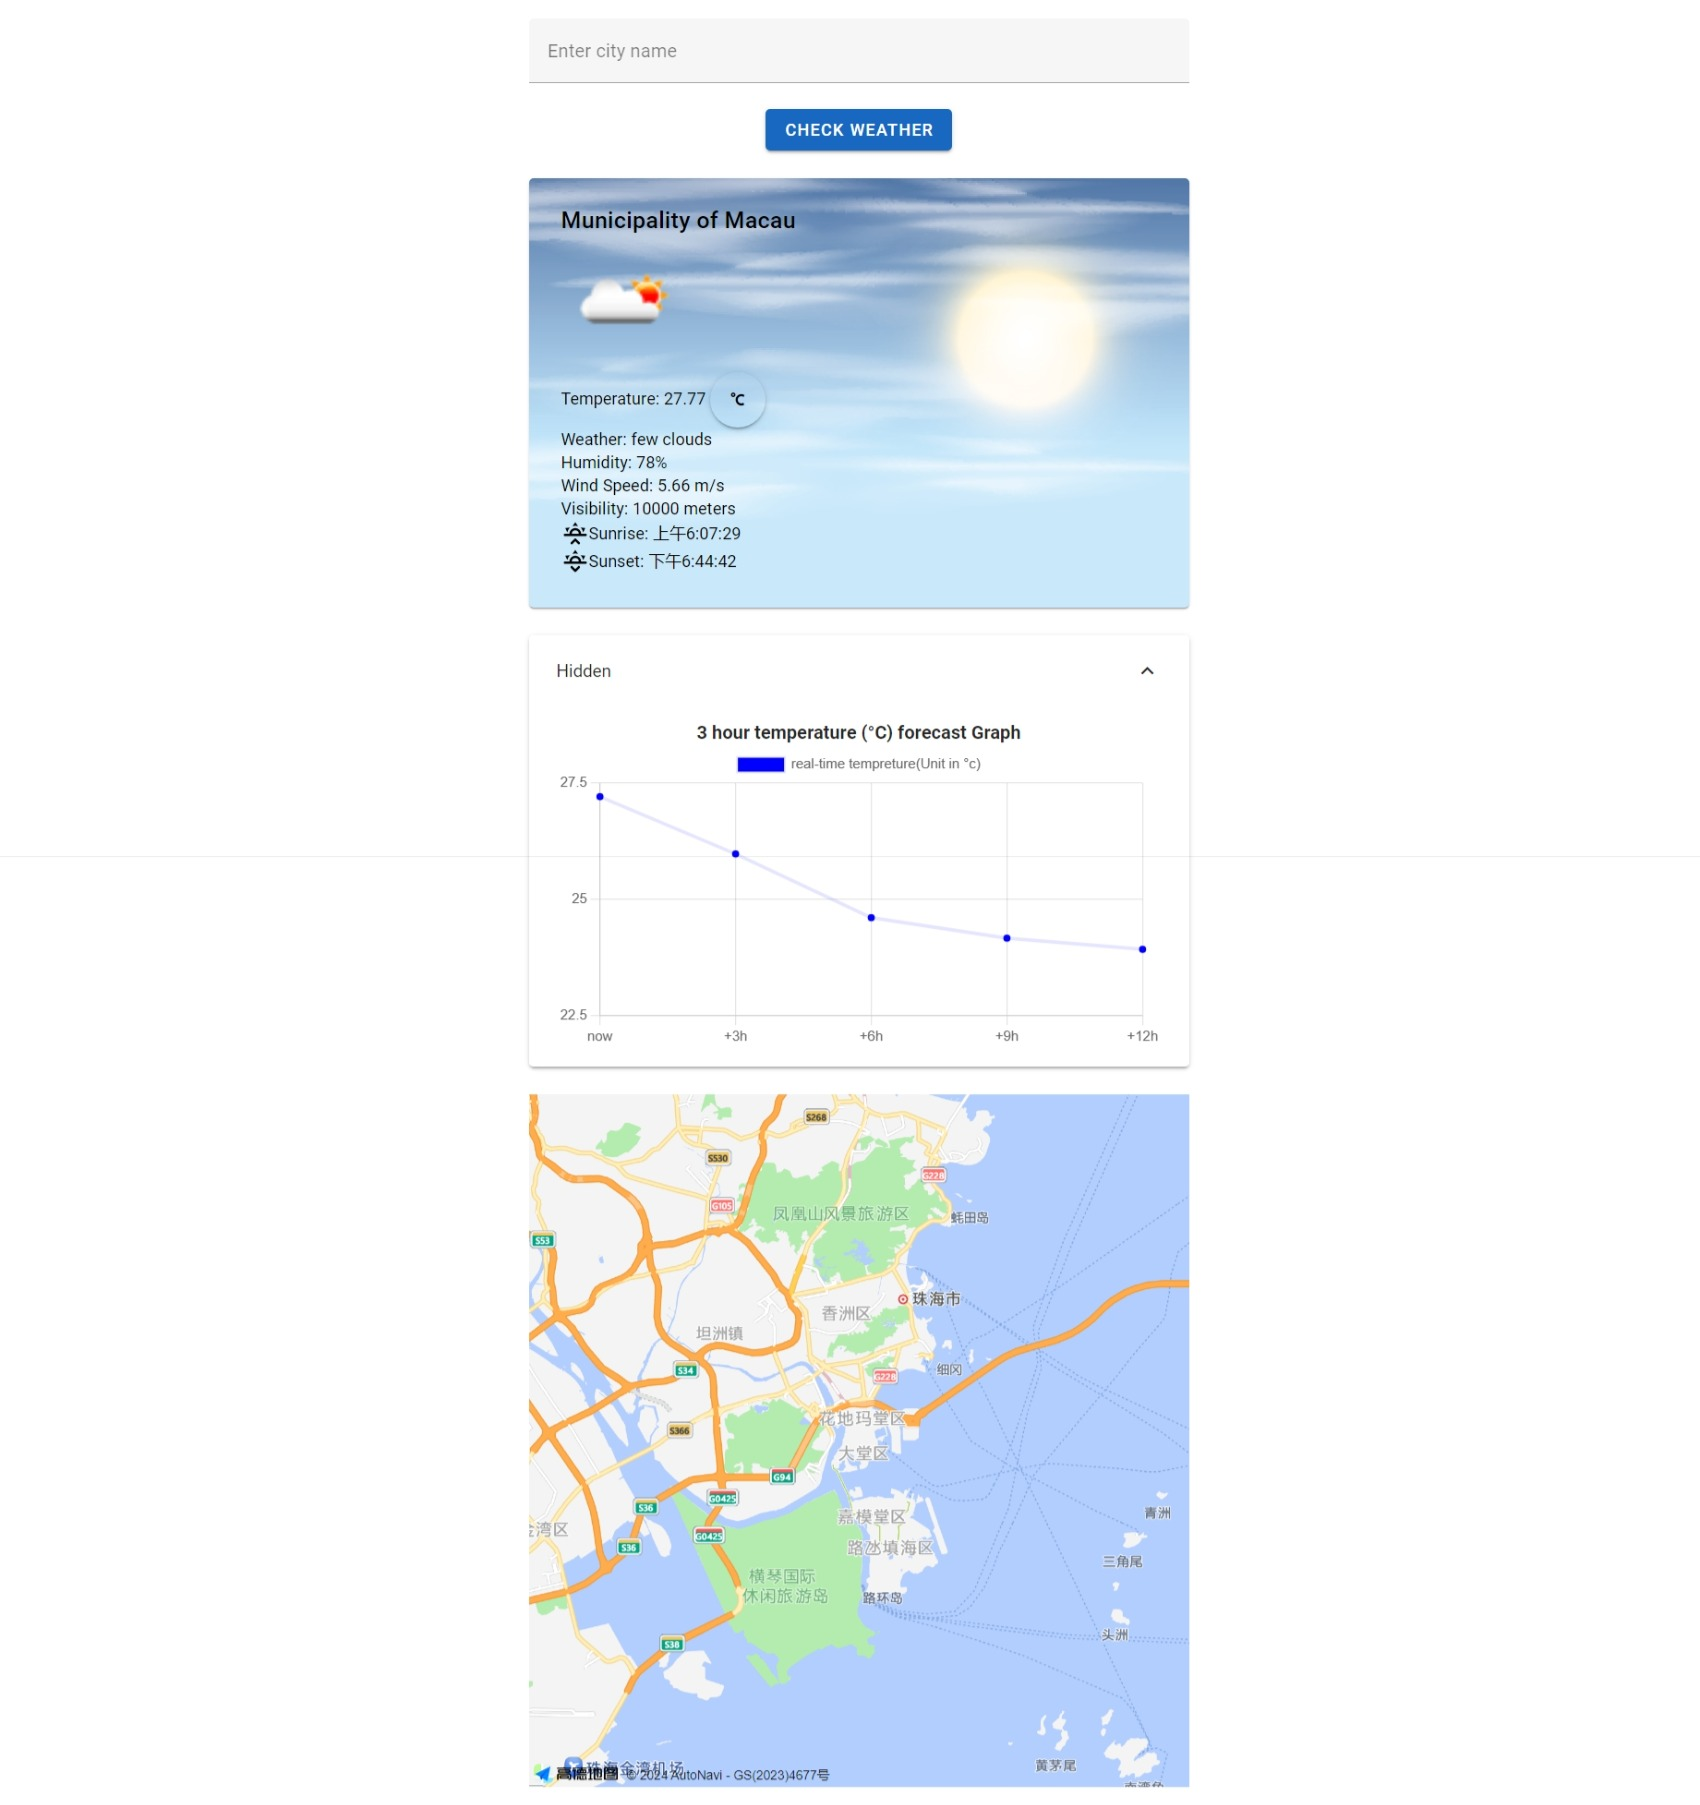
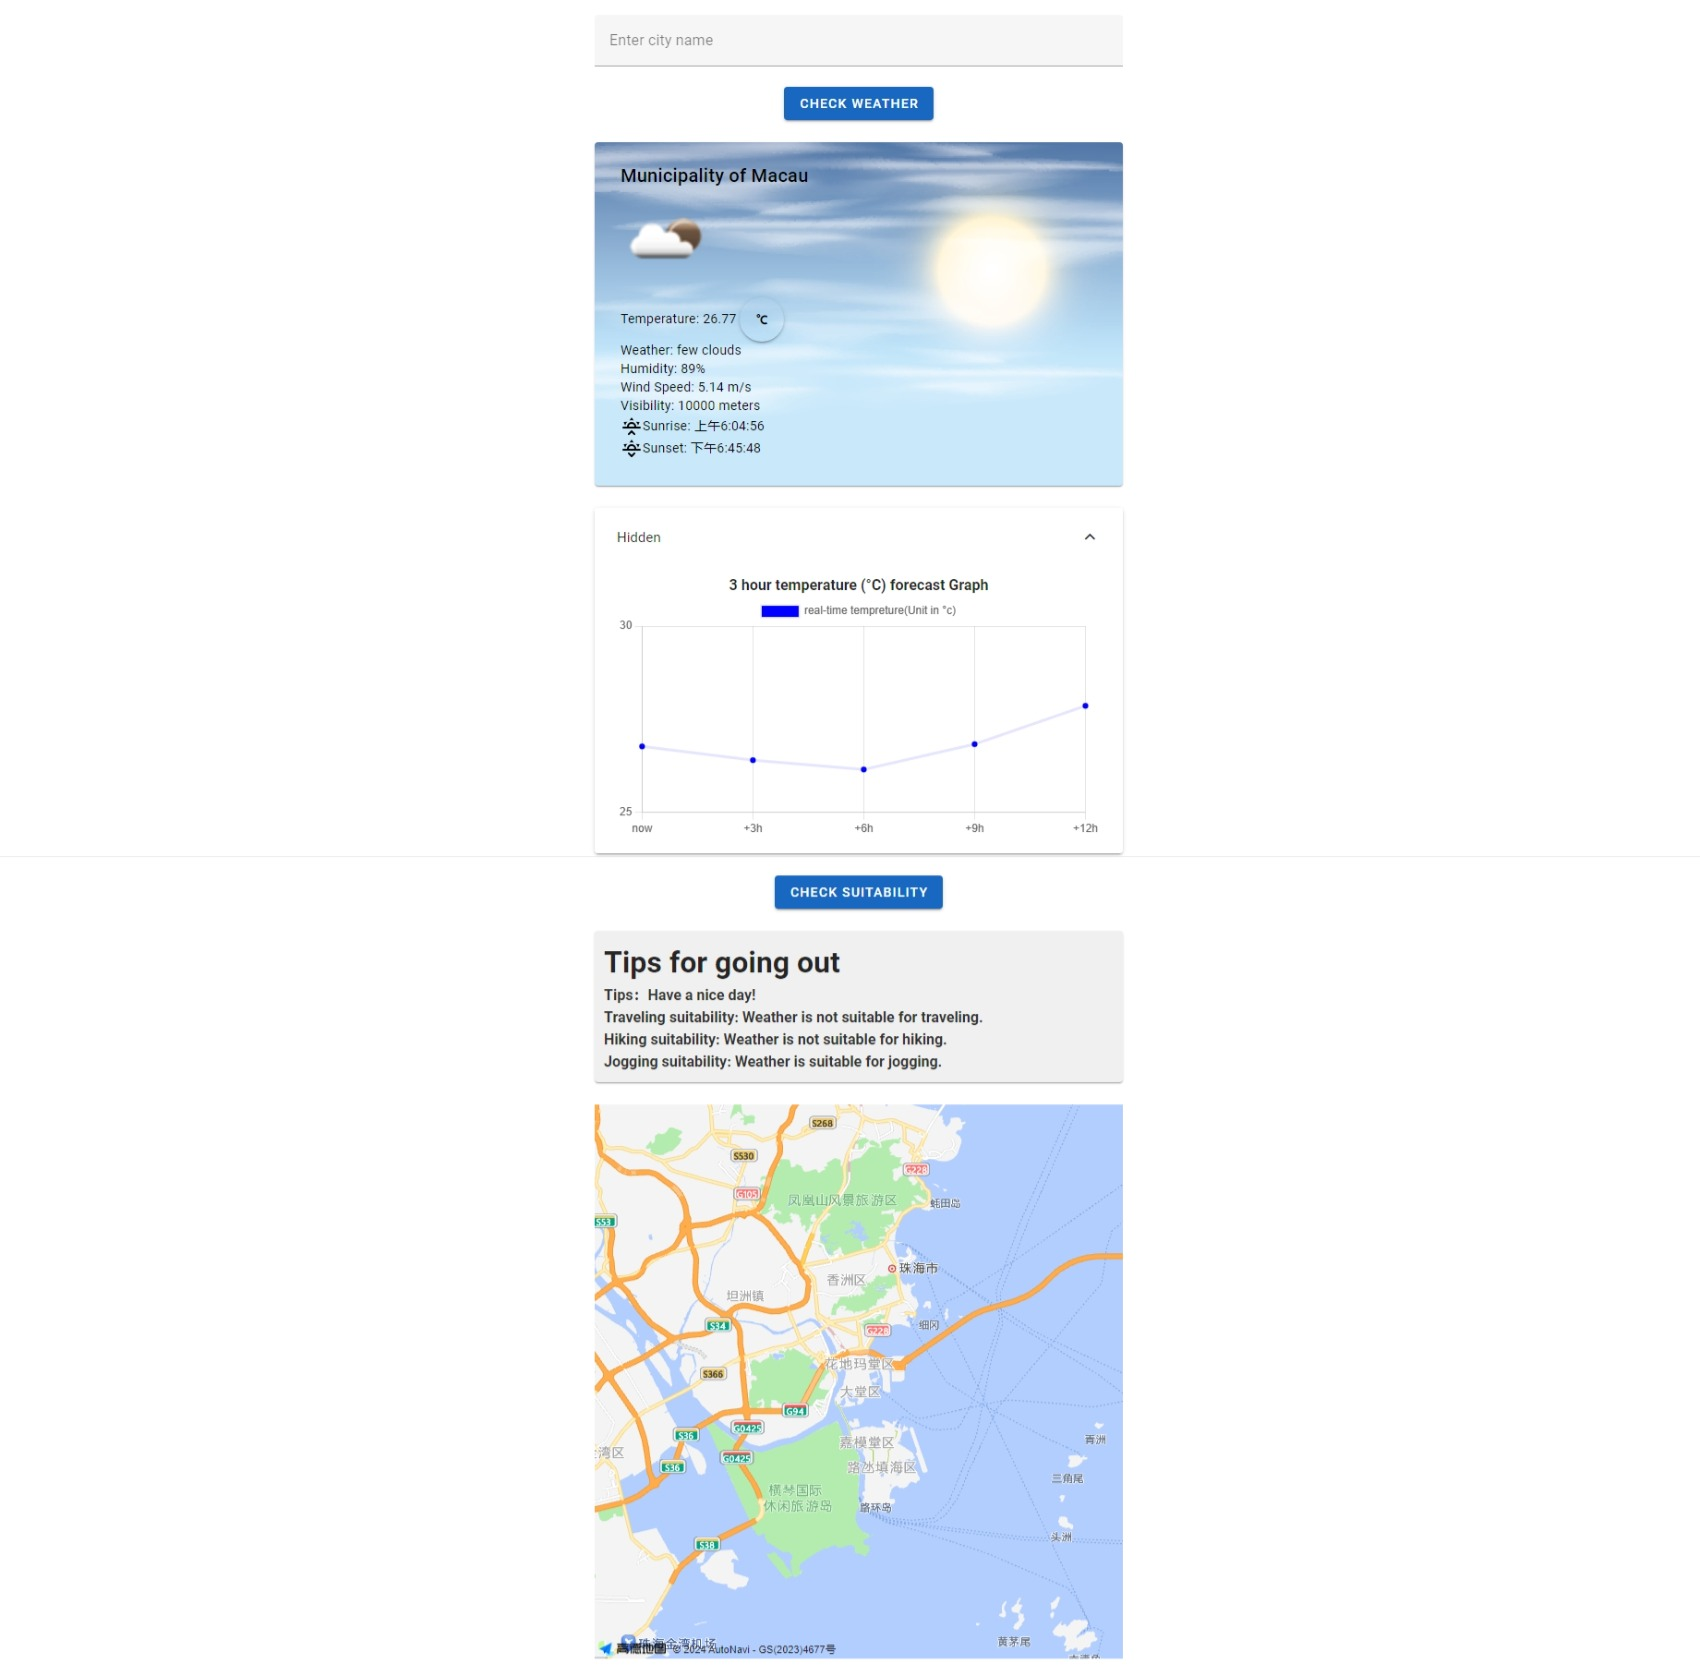
third update

diff --git a/weather-client-copy/src/App.vue b/weather-client-copy/src/App.vue
@@ -3,9 +3,6 @@
   <v-main>
     <v-container>
       <v-row>
-        <!--v-col cols="12" sm="6" offset-sm="3" class="d-flex justify-center">
-          <v-btn color="primary" @click="getLocation">Get From Your Location</v-btn>
-        </v-col-->
         <v-col cols="12" sm="6" offset-sm="3" class="search-col">
           <v-text-field label="Enter city name" v-model="cityName" clearable @keyup.enter="fetchWeather" class="mb-0"></v-text-field>
         </v-col>
@@ -14,6 +11,7 @@
             Check Weather
           </v-btn>
         </v-col>
+        
       </v-row>
       
       <v-row v-if="weather">
@@ -69,6 +67,21 @@
           </v-expansion-panels> 
         </v-col>
       </v-row>
+      <v-row>
+       <v-col cols="12" sm="6" offset-sm="3" class="d-flex justify-center">
+            <v-btn color="primary" @click="checkSuitability">Check Suitability</v-btn>
+          </v-col>
+      <v-col cols="12" sm="6" offset-sm="3" class="suitability-col" v-if="showSuitability">
+        <v-card style="background-color: #f0f0f0; padding: 10px;">
+          <h1>Tips for going out</h1>
+          <div style="font-weight: bold; color: #333;">Tips：{{ tips }}</div>
+          <p style="font-weight: bold; color: #333;">Traveling suitability: {{ travelingSuitability }}</p>
+          <p style="font-weight: bold; color: #333;">Hiking suitability: {{ hikingSuitability }}</p>
+          <p style="font-weight: bold; color: #333;">Jogging suitability: {{ joggingSuitability }}</p>
+        </v-card>
+      </v-col>
+        
+      </v-row>
       <v-row><!--这是新加入的地图-->
         <v-col cols="12" sm="6" offset-sm="3">
           <div id="container"> <MapContainer> </MapContainer></div>
@@ -89,166 +102,5 @@
 import "./assets/AppStyles.css";
 import AppLogic from './js/App.js';
 export default AppLogic;
-/*
-import axios from 'axios';
-import { mdiWeatherSunsetUp, mdiWeatherSunsetDown } from '@mdi/js';
-
-
-import dayImage from './assets/backgrounds/day-bg.png';
-import nightImage from './assets/backgrounds/night-bg.png';
-
-import { Chart, registerables } from 'chart.js';
-Chart.register(...registerables);
-
-import AMapLoader from '@amap/amap-jsapi-loader';
-
-export default {
-  name: 'App',
-  components: {
-    SvgWeatherIcon,
-  },
-  data: () => ({
-    cityName: '',
-    weather: null,
-    error: null,
-    textColor: 'black', 
-    temperatureUnit: 'C', 
-    dayBackgroundImage: dayImage, 
-    nightBackgroundImage: nightImage, 
-    currentBackgroundImage: dayImage, 
-    icons: {
-      mdiWeatherSunsetUp, 
-      mdiWeatherSunsetDown,
-    },
-    yValues : '',
-    panel: null,
-    panelTitle: 'Details',
-    chartInstance: null,
-  }),
-    formattedTemperature() {
-      if (this.temperatureUnit === 'F') {
-        return (this.weather.temperature * 9/5 + 32).toFixed(1); 
-      }
-      return this.weather.temperature; 
-    },
-  },
-  mounted() {
-    this.getLocation(); 
-    this.initAMap();
-  },
-  unmounted() {
-    this.map?.destroy();
-  },
-  watch: {
-    panel(newVal) {
-      if (newVal === 0) {
-        this.panelTitle = 'Hidden';
-        this.$nextTick(() => {
-          
-          this.getChart(this.weather.yValues);
-        });
-      }
-      else {
-        this.panelTitle = 'Details';
-    }
-    }
-  },
-  methods: {
-
-    getLocation() {
-      if (navigator.geolocation) {
-        navigator.geolocation.getCurrentPosition(this.showPosition, this.showError); }
-      else {
-        console.log("Not support grolocation")
-      }
-    },
-    showPosition(position) {
-      const latitude = position.coords.latitude;
-      const longitude = position.coords.longitude;
-      axios.get('http://localhost:5000/weather', {
-        params: {
-        latitude: latitude,
-        longitude: longitude  }
-                })
-      .then(response => {
-        this.weather=response.data;
-        this.yValues=this.weather.yValues;
-      })
-      .catch(error => {
-        console.error(error); });
-    }, 
-    beforeDestroy() {
-      if (this.chartInstance) {
-        this.chartInstance.destroy();
-      }
-    },
-    getChart(yValues){
-      this.$nextTick(() => {
-        if (this.chartInstance) {
-          this.chartInstance.destroy();
-        }
-        const ctx = document.getElementById('myChart').getContext('2d');
-        this.chartInstance = new Chart(ctx, {
-          type: "line",
-          data: {
-            labels:["now", "+3h", "+6h", "+9h", "+12h"],
-            datasets: [{
-              label: "real-time tempreture(Unit in °c)",
-              fill: false,
-              lineTension: 0,
-              backgroundColor: "rgba(0,0,255,1.0)",
-              borderColor: "rgba(0,0,255,0.1)",
-              data: yValues,
-            }]
-          },
-          options: {
-            // legend: {display: false},
-            scales: {
-              y: {
-                ticks: {
-                  min: -20,
-                  max: 40,
-                  stepSize: 5,
-                }
-              },
-            }
-          }
-        });
-      });
-    },
-    fetchWeather() {
-      axios.get('http://localhost:5000/weather', {
-        params: {
-          city: this.cityName
-        }
-      })
-      .then(response => {
-        this.weather = response.data;
-        this.error = null;
-        const now = new Date().getTime() / 1000; // now time
-        this.yValues=this.weather.yValues;
-        if (now < this.weather.sunrise || now > this.weather.sunset) {
-          this.currentBackgroundImage = this.nightBackgroundImage; // night
-          this.textColor = 'white'; 
-        } else {
-          this.currentBackgroundImage = this.dayBackgroundImage; // day
-          this.textColor = 'black'; 
-        }
-      })
-      .catch(error => {
-        this.error = error;
-        this.error = "There was an error fetching the weather data or the city was not found.";
-        this.weather = null;
-      });
-    },
-    formatTime(timestamp) {
-      return new Date(timestamp * 1000).toLocaleTimeString();
-    },
-    toggleTemperatureUnit() {
-      this.temperatureUnit = this.temperatureUnit === 'C' ? 'F' : 'C';
-    },
-  },
-  }
-*/
 </script>
 

diff --git a/weather-client-copy/src/js/App.js b/weather-client-copy/src/js/App.js
@@ -34,6 +34,12 @@ export default {
     panel: null,
     panelTitle: 'Details',
     chartInstance: null,
+    //以下适用于出行情况
+    tips: '',
+    showSuitability: false,
+    travelingSuitability: '',
+    hikingSuitability: '',
+    joggingSuitability: '',
   }),
   computed: {
     formattedTemperature() {
@@ -145,6 +151,7 @@ export default {
           this.error = null;
           const now = new Date().getTime() / 1000; // now time
           this.yValues = this.weather.yValues;
+
           if (now < this.weather.sunrise || now > this.weather.sunset) {
             this.currentBackgroundImage = this.nightBackgroundImage; // night
             this.textColor = 'white';
@@ -184,6 +191,40 @@ export default {
     toggleTemperatureUnit() {
       this.temperatureUnit = this.temperatureUnit === 'C' ? 'F' : 'C';
     },
+    checkSuitability() {
+      this.showSuitability = true;
+      if (this.weather.condition === 'Sunny') {
+        this.tips = 'Pay attention to sun protection'
+      }
+      else if (this.weather.condition === 'Rain') {
+        this.tips = 'Remember to bring an umbrella'
+      }
+      else if (this.weather.condition === 'Snow') {
+        this.tips = 'Be careful when going out'
+      }
+      else this.tips = 'Have a nice day!'
+      // Example code to check if it's suitable for traveling based on weather condition
+      if (this.weather.condition === 'Sunny' || this.weather.condition === 'Cloud') {
+        this.travelingSuitability = 'Weather is suitable for traveling.';
+      } else {
+        this.travelingSuitability = 'Weather is not suitable for traveling.';
+      }
+
+      // Example code to check if it's suitable for hiking based on temperature range
+      if (this.weather.temperature >= 10 && this.weather.temperature <= 25) {
+        this.hikingSuitability = 'Weather is suitable for hiking.';
+      } else {
+        this.hikingSuitability = 'Weather is not suitable for hiking.';
+      }
+
+      // Example code to check if it's suitable for josgging based on weather condition and temperature
+      if (this.weather.condition === 'Clouds' && this.weather.temperature >= 15) {
+        this.joggingSuitability = 'Weather is suitable for jogging.';
+      } else {
+        this.joggingSuitability = 'Weather is not suitable for jogging.';
+      }
+    },
+
   },
 }
 

diff --git a/weather-client-copy/src/components/MapContainer.vue b/weather-client-copy/src/components/MapContainer.vue
@@ -7,13 +7,15 @@ let map = null;
 onMounted(() => {
   if (navigator.geolocation) {
     navigator.geolocation.getCurrentPosition((position) => {
-      const longitude = position.coords.longitude; // 获取当前位置的经度
-      const latitude = position.coords.latitude; // 获取当前位置的纬度
-
+      const longitude = position.coords.longitude; 
+      const latitude = position.coords.latitude; 
       AMapLoader.load({
         key: "c8bbe677c3d25142e6618bd4b16a2817",
         version: "2.0",
         plugins: ["AMap.Scale"],
+        lang: "en",
+        region: "en" // 指定地图区域为英文
+
       }).then((AMap) => {
         map = new AMap.Map("container", {
           viewMode: "3D",
@@ -25,7 +27,7 @@ onMounted(() => {
       });
     });
   } else {
-    console.log("浏览器不支持地理定位功能。");
+    console.log("Not supported");
   }
 });
 
@@ -33,14 +35,3 @@ onUnmounted(() => {
   map?.destroy();
 });
 </script>
-
-<template>
-  <div id="container"></div>
-</template>
-
-<style scoped>
-#container {
-  width: 100%;
-  height: 800px;
-}
-</style>

diff --git a/weather-server/app.py b/weather-server/app.py
@@ -40,6 +40,8 @@ def get_weather():
     result=[data,data1]
     print(result)
     weather_data = {
+        #新加入的condition
+        "condition": data['weather'][0]['main'],
         "city": data['name'],
         "temperature": data['main']['temp'],
         "description": data['weather'][0]['description'],
